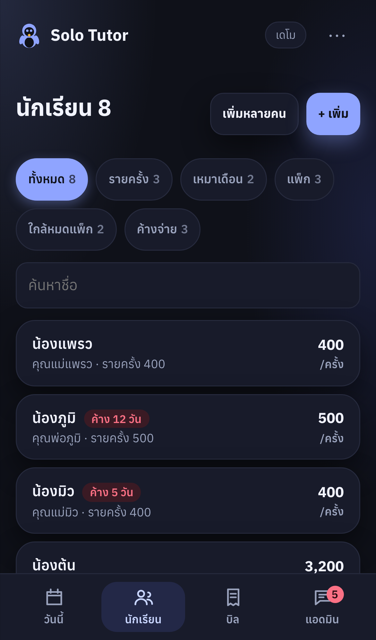
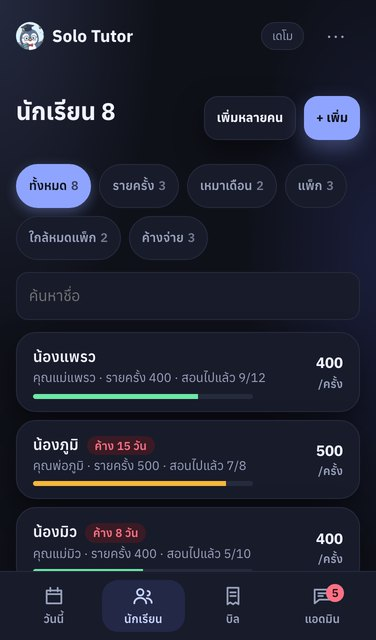
docs(readme): ภาพหน้าจอชุดใหม่ + ฟีเจอร์ 12 ก.ย. + ตัวเลขที่ตรวจแล้ว
ภาพ วันนี้/นักเรียน/แอดมิน/บิล จับใหม่จากเว็บจริงหลัง 70db644 (ปฏิทินแถบสัปดาห์
"สอนไปแล้ว x/N" ปุ่มส่งปุ่มเดียว) ขนาดเดิม 376×640 ธีมเดิม
Features: ปฏิทิน · จองล่วงหน้า · ล็อกคิว · ตัวนับคอร์ส · แถบล็อกส่ง · แชทเป็นทางเดียว (บอกตรง ๆ)
ตรวจแล้ว: 865 unit/104 ไฟล์ · 18 SQL · 48 edge · 177 e2e · 38 mock · 7 edge functions · 19 migrations

diff --git a/README.md b/README.md
@@ -6,11 +6,11 @@ Back-office for a tutor who teaches alone. Tap once to mark a session taught; at
 
 <p align="center"><img src="docs/brand/solo-tutor-square.jpg" width="320" alt="Solo Tutor — the tutor penguin at the easel" /></p>
 
-| หน้าแรก — one button into the demo | วันนี้ — one tap per session |
+| หน้าแรก — one button into the demo | วันนี้ — the week strip, then one tap per session |
 |---|---|
 | ![Landing page on a phone](docs/images/landing.jpg) | ![Today view with the เช็คชื่อ button](docs/images/today.jpg) |
 
-| นักเรียน — each student with their own billing mode | แอดมิน — drafts waiting for the teacher to read and send |
+| นักเรียน — billing mode and **สอนไปแล้ว x/N** per student | แอดมิน — drafts waiting for the teacher to read and send |
 |---|---|
 | ![Students list](docs/images/students.jpg) | ![Admin drafts tab](docs/images/admin-drafts.jpg) |
 
@@ -39,12 +39,16 @@ A solo tutor with 11–50 students keeps attendance in a notebook, a phone note 
 ## Features
 
 ### Daily teaching
-- **วันนี้** lists today's sessions with done/waiting counters; **เช็คชื่อ** marks one taught, a repeat tap does not double-count, and a toast undoes it
-- **+ เพิ่มวันนี้** adds an unscheduled session; **เลื่อน** and **งดคาบนี้** move or cancel one and draft the parent message on the spot — the bill is computed from attendance, not the timetable
+- **วันนี้** opens on a one-week calendar strip with a session count per day; the calendar button expands it to the month and back without leaving the page. Tap any day to see who is scheduled; future days show **เลื่อน** only, since a session that has not happened cannot be marked
+- **เช็คชื่อ** marks one taught, a repeat tap does not double-count, and a toast undoes it; each row shows **สอนไปแล้ว 8/16** for the student's course, turning **ครบแล้ว 8/8** when the course is complete
+- **+ เพิ่มวันนี้** adds one session; **+ จองล่วงหน้า** on any other day books one or a weekly series (**จองซ้ำทุกสัปดาห์** — pick weekdays and a number of weeks, up to 26; the button says how many sessions it will create before you press it)
+- **Slot locking** — a time that already belongs to another active student is refused and the holder is named; a **สอนกลุ่ม** chip overrides it on purpose, when booking and when moving
+- **เลื่อน** and **งดคาบนี้** move or cancel a session and draft the parent message on the spot — the bill is computed from attendance, not the timetable
 - Packages that are down to 1–2 sessions raise a renewal draft; an exhausted package still allows attendance but says the session is not yet paid
 
 ### Students and pricing
 - Add one at a time (name, payer — siblings can share one — LINE ID, and a billing mode: รายครั้ง · เหมาเดือน · แพ็ก of 10 or 20 or a custom count) or **เพิ่มหลายคน** by pasting from Excel, Google Sheets or LINE, or uploading CSV/XLSX; headers are guessed, duplicates dropped
+- **Course counter** — every non-package student has a course length (the teacher's own default from `⋯` → **จำนวนครั้งต่อคอร์ส**, overridable per student); attendance drives **สอนไปแล้ว x/N**, the list shows **ครบคอร์สแล้ว** when it is reached, and the student page offers **ต่อคอร์ส** (start counting again from 0, history and bills untouched) and **แถมครั้งให้** (extra sessions on this round)
 - Filters: ทั้งหมด · รายครั้ง · เหมาเดือน · แพ็ก · ใกล้หมดแพ็ก · ค้างจ่าย
 - Price changes mid-month apply to new sessions only; the billing mode cannot change while unbilled work exists, and the app says why
 - Pause a student (history kept, not counted toward the free cap), resume, or delete — a deleted student stays deleted across backups, devices and the cloud, and the server forgets the payer too
@@ -60,8 +64,9 @@ A solo tutor with 11–50 students keeps attendance in a notebook, a phone note 
 ### Messages to parents
 - Every message is drafted from the ledger: new bill · three-step balance notices (สุภาพ → ชัดเจน → รอบสุดท้าย by days overdue) · a short nudge · package renewal · receipt · moved/cancelled session · mid-month summary · homework and homework reminders · answers to parent questions
 - **ส่งใน LINE** is one button: if the parent is paired with the teacher's LINE OA the message goes out through the OA; if not, the LINE app opens with the message for the teacher to send. A message whose numbers changed after drafting cannot be sent
-- **ค้างจ่าย** tab: every unpaid bill in one place, sorted by days overdue, with the notice step due, the last notice sent and how many; **การบ้าน** tab: assign to several students at once, track received/overdue, reminders draft themselves
-- **แชท**: a parent's question in the OA (how much, is there class, sessions left, paid yet) gets an answer drafted from real data for the teacher to approve
+- **ค้างจ่าย** tab: every unpaid bill in one place, sorted by days overdue, with the notice step due, the last notice sent and how many; **สร้างข้อความเตือนยอด** drafts a short reminder when none is waiting. **การบ้าน** tab: assign to several students at once, track received/overdue, reminders draft themselves
+- **แชท**: type the question a parent asked (how much, is there class, sessions left, paid yet) and the answer is drafted from real data for the teacher to approve and send. Replies parents type in LINE are stored on the server but not yet shown in the app
+- While a message opened in the LINE app is still waiting for **ส่งแล้ว / ยังไม่ได้ส่ง**, every other send button is locked; a banner on each admin tab says so and offers **ยกเลิกการส่งที่ค้าง**
 
 ### LINE OA
 - A teacher connects their own OA once (Channel secret + long-lived token, encrypted at rest); the app sets the webhook URL and runs LINE's endpoint test itself
